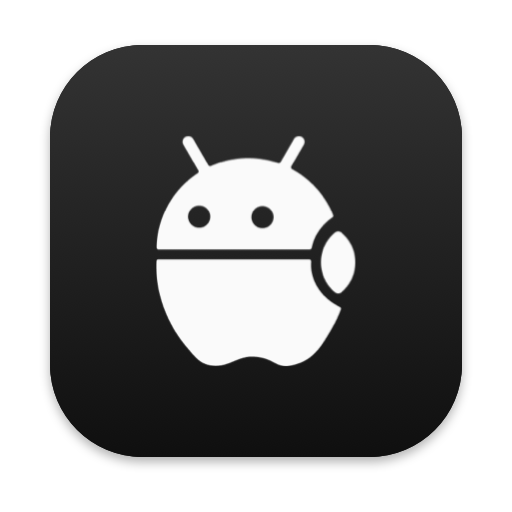
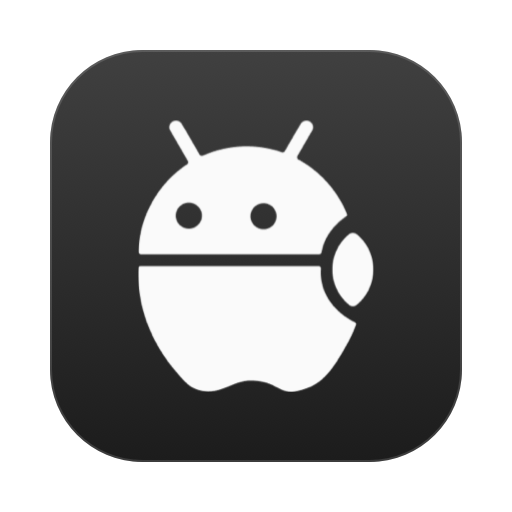
Mac n Droid 0.11.0
- Clearer Mac app icon: no baked-in shadow, larger droid, a light edge so it
  stands out on a dark Dock
- Browser extension says "Open on Your Phone" (popup and right-click menus)
- Mac, Android and the browser extension are all 0.11.0
- CHANGELOG.md with what's new; README, download page and bug report form
  updated; no personal device names in examples

diff --git a/tools/make-icons.swift b/tools/make-icons.swift
@@ -60,7 +60,9 @@ func drawGlyph(_ img: NSImage, in rect: NSRect) {
 let green = NSColor(srgbRed: 0x0D / 255, green: 0xA4 / 255, blue: 0x57 / 255, alpha: 1)   // public/logo_droid_greenbg.svg
 let greenHex = String(format: "#%02X%02X%02X", Int(green.redComponent * 255), Int(green.greenComponent * 255), Int(green.blueComponent * 255))
 
-// MARK: Mac app icon — macOS grid: 824/1024 body, ~185 radius, soft drop shadow.
+// MARK: Mac app icon — macOS grid: 824/1024 body centered, ~185 radius. No baked-in shadow (the Dock and
+// Finder draw their own). A slightly lifted charcoal with a fine light edge so it stands out on a dark Dock,
+// and a large glyph so it reads at Dock size.
 let iconset = "mac/Resources/AppIcon.iconset"
 for (pt, scales) in [(16, [1, 2]), (32, [1, 2]), (128, [1, 2]), (256, [1, 2]), (512, [1, 2])] {
     for sc in scales {
@@ -68,21 +70,18 @@ for (pt, scales) in [(16, [1, 2]), (32, [1, 2]), (128, [1, 2]), (256, [1, 2]), (
         let rep = bitmap(px, px) { size in
             let s = size.width
             let inset = s * 100 / 1024
-            let body = NSRect(x: inset, y: inset * 1.1, width: s - inset * 2, height: s - inset * 2)
-            let path = NSBezierPath(roundedRect: body, xRadius: s * 185 / 1024, yRadius: s * 185 / 1024)
-            NSGraphicsContext.saveGraphicsState()
-            let shadow = NSShadow()
-            shadow.shadowColor = NSColor.black.withAlphaComponent(0.3)
-            shadow.shadowOffset = NSSize(width: 0, height: -s * 10 / 1024)
-            shadow.shadowBlurRadius = s * 22 / 1024
-            shadow.set()
-            NSColor(white: 0.08, alpha: 1).setFill()
-            path.fill()
-            NSGraphicsContext.restoreGraphicsState()
-            // Subtle top-to-bottom sheen, like native dark icons.
-            NSGradient(starting: NSColor(white: 0.20, alpha: 1), ending: NSColor(white: 0.06, alpha: 1))!
+            let body = NSRect(x: inset, y: inset, width: s - inset * 2, height: s - inset * 2)
+            let radius = s * 185 / 1024
+            let path = NSBezierPath(roundedRect: body, xRadius: radius, yRadius: radius)
+            NSGradient(starting: NSColor(white: 0.25, alpha: 1), ending: NSColor(white: 0.11, alpha: 1))!
                 .draw(in: path, angle: -90)
-            drawGlyph(white, in: body.insetBy(dx: body.width * 0.25, dy: body.height * 0.22))
+            // Hairline edge, brighter at the top, like native dark icons.
+            let edge = NSBezierPath(roundedRect: body.insetBy(dx: s / 1024 * 2, dy: s / 1024 * 2),
+                                    xRadius: radius - s / 1024 * 2, yRadius: radius - s / 1024 * 2)
+            edge.lineWidth = max(1, s * 4 / 1024)
+            NSColor(white: 1, alpha: 0.14).setStroke()
+            edge.stroke()
+            drawGlyph(white, in: body.insetBy(dx: body.width * 0.19, dy: body.height * 0.17))
         }
         save(rep, "\(iconset)/icon_\(pt)x\(pt)\(sc == 2 ? "@2x" : "").png")
     }

diff --git a/site/index.html b/site/index.html
@@ -502,8 +502,8 @@ footer{text-align:center;color:var(--muted);font-size:13px;padding:24px 16px 48p
   <p class="lead">Notifications, codes, clipboard, files, screenshots, music and even your phone's screen, right on your Mac. Watch it work below, or try it yourself.</p>
   <div class="downloads">
     <!-- Download links: keep the literal filenames so they're easy to update on each release. -->
-    <a class="btn primary" href="MacNDroid-0.8.2.dmg"><img src="assets/icon.png" alt=""><span>Download for Mac<small>macOS 14 or later · v0.8.2</small></span></a>
-    <a class="btn secondary" href="MacNDroid-0.8.5.apk"><img src="assets/icon.png" alt=""><span>Download for Android<small>Android 10 or later · v0.8.5</small></span></a>
+    <a class="btn primary" href="MacNDroid-0.11.0.dmg"><img src="assets/icon.png" alt=""><span>Download for Mac<small>macOS 14 or later · v0.11.0</small></span></a>
+    <a class="btn secondary" href="MacNDroid-0.11.0.apk"><img src="assets/icon.png" alt=""><span>Download for Android<small>Android 10 or later · v0.11.0</small></span></a>
   </div>
   <div class="trust">Apple silicon and Intel · Pairs with a QR code in under a minute</div>
 </header>
@@ -599,8 +599,8 @@ footer{text-align:center;color:var(--muted);font-size:13px;padding:24px 16px 48p
   <h2 class="big display">Free. For you and your friends.</h2>
   <p class="sub">No account, no ads, no subscription.</p>
   <div class="downloads">
-    <a class="btn primary" href="MacNDroid-0.8.2.dmg"><img src="assets/icon.png" alt=""><span>Download for Mac<small>macOS 14 or later · v0.8.2</small></span></a>
-    <a class="btn secondary" href="MacNDroid-0.8.5.apk"><img src="assets/icon.png" alt=""><span>Download for Android<small>Android 10 or later · v0.8.5</small></span></a>
+    <a class="btn primary" href="MacNDroid-0.11.0.dmg"><img src="assets/icon.png" alt=""><span>Download for Mac<small>macOS 14 or later · v0.11.0</small></span></a>
+    <a class="btn secondary" href="MacNDroid-0.11.0.apk"><img src="assets/icon.png" alt=""><span>Download for Android<small>Android 10 or later · v0.11.0</small></span></a>
   </div>
 </section>
 

diff --git a/browser-extension/background.js b/browser-extension/background.js
@@ -103,27 +103,26 @@ chrome.tabs.onRemoved.addListener((tab) => {
 });
 
 async function sendUrl(url) {
-  if (!/^https?:\/\//.test(url || "")) return { ok: false, error: "Only web pages can be sent." };
+  if (!/^https?:\/\//.test(url || "")) return { ok: false, error: "Only web pages can be opened on your phone." };
   if (!open) return { ok: false, error: "Open the Mac n Droid app first." };
   if (!status.connected) return { ok: false, error: "Your phone isn't connected." };
   send({ t: "send_url", url });
   return { ok: true };
 }
 
-// Right-click → "Open link on Pixel 8" / "Send page to Pixel 8".
+// Right-click → "Open Link on Your Phone" / "Open Page on Your Phone".
 function setUpMenus() {
   chrome.contextMenus.removeAll(() => {
-    chrome.contextMenus.create({ id: "link", title: "Open Link on Phone", contexts: ["link"] });
-    chrome.contextMenus.create({ id: "page", title: "Send Page to Phone", contexts: ["page"] });
+    chrome.contextMenus.create({ id: "link", title: "Open Link on Your Phone", contexts: ["link"] });
+    chrome.contextMenus.create({ id: "page", title: "Open Page on Your Phone", contexts: ["page"] });
     updateMenus();
   });
 }
 
 function updateMenus() {
-  const phone = status.phone || "Phone";
   const enabled = status.connected;
-  chrome.contextMenus.update("link", { title: `Open Link on ${phone}`, enabled }, () => void chrome.runtime.lastError);
-  chrome.contextMenus.update("page", { title: `Send Page to ${phone}`, enabled }, () => void chrome.runtime.lastError);
+  chrome.contextMenus.update("link", { enabled }, () => void chrome.runtime.lastError);
+  chrome.contextMenus.update("page", { enabled }, () => void chrome.runtime.lastError);
 }
 
 chrome.contextMenus.onClicked.addListener((info, tab) => {

diff --git a/browser-extension/popup.js b/browser-extension/popup.js
@@ -9,7 +9,6 @@ chrome.runtime.sendMessage({ t: "status" }, (s) => {
   } else {
     $("phone").textContent = s.phone || "Phone";
     $("status").textContent = "Connected";
-    $("send").textContent = `Send This Page to ${s.phone || "Phone"}`;
     $("send").disabled = false;
   }
   // What the phone can control right now: makes it obvious when a tab isn't being picked up.
@@ -23,11 +22,11 @@ $("send").addEventListener("click", async () => {
   $("send").disabled = true;
   chrome.runtime.sendMessage({ t: "send_url", url: tab && tab.url }, (r) => {
     if (r && r.ok) {
-      $("send").textContent = "Sent ✓";
+      $("send").textContent = "Opened on your phone ✓";
       setTimeout(() => window.close(), 700);
     } else {
       $("send").disabled = false;
-      $("note").textContent = (r && r.error) || "Couldn't send this page.";
+      $("note").textContent = (r && r.error) || "Couldn't open this page on your phone.";
     }
   });
 });

diff --git a/mac/Sources/MacNDroid/Views/NotchView.swift b/mac/Sources/MacNDroid/Views/NotchView.swift
@@ -270,7 +270,7 @@ final class NotchController {
         scheduleHide(after: ringing ? 60 : (style == .small ? 4 : 6))
     }
 
-    /// A short status pill, e.g. "Image copied from Pixel 8".
+    /// A short status pill, e.g. "Image copied from phone".
     func flash(symbol: String, text: String) {
         if model.expanded, model.hovering || model.replying || current?.isCall == true { return }
         present { m in

diff --git a/browser-extension/popup.html b/browser-extension/popup.html
@@ -26,7 +26,7 @@
     </div>
   </div>
   <div class="media" id="media"></div>
-  <button id="send" disabled>Send This Page to Phone</button>
+  <button id="send" disabled>Open on Your Phone</button>
   <div class="note" id="note">Music and videos playing in this browser can be paused and skipped from your phone. Right-click a link to open it on your phone.</div>
   <script src="popup.js"></script>
 </body>

diff --git a/mac/Sources/MacNDroid/Core/LeftBehind.swift b/mac/Sources/MacNDroid/Core/LeftBehind.swift
@@ -1,6 +1,6 @@
 import AppKit
 
-/// "You left Pixel 8 behind."
+/// "You left your phone behind."
 ///
 /// The Mac can't measure distance to the phone, so it uses the network instead. When the phone
 /// stops answering *and* this Mac is now on a different network (a different router, or none)

diff --git a/README.md b/README.md
@@ -9,6 +9,7 @@ Free, private continuity between an Android phone and a Mac, with no account and
 | **Link** | Local Wi-Fi only, QR-code pairing, AES-256-GCM end-to-end encryption. See [PROTOCOL.md](PROTOCOL.md). |
 
 ## Features
+What changed in each version: [CHANGELOG.md](CHANGELOG.md).
 
 ### Notifications
 - **Phone notifications on your Mac:** native banners, or Dynamic Island–style drops from the MacBook notch (top of the screen on Macs without a notch). App names and logos (Gmail, WhatsApp…), and the app's own buttons: Reply, Mark as read, Answer/Decline for calls. Dismiss on the Mac and it's dismissed on the phone.
@@ -27,9 +28,9 @@ Free, private continuity between an Android phone and a Mac, with no account and
 
 ### Files and links
 - **Share → Send to Phone on the Mac:** in Finder, Photos, Safari, Preview and any app with a Share button. Files and photos are sent, links open on the phone, text goes to its clipboard.
-- **Files both ways:** drag onto the Mac window, Dock icon or the **notch**; on the phone use **Share → Send to <your Mac>**, the **Send files** button, or the **Send files to Mac** Quick Settings tile. Several files at once give one sound and one notification.
+- **Files both ways:** drag onto the Mac window, Dock icon or the **notch**; on the phone use **Share → Send to Mac**, the **Send files** button, or the **Send files to Mac** Quick Settings tile. Several files at once give one sound and one notification.
 - **Link handoff:** share a link on the phone to open it in the Mac's browser. Send the current browser tab from the Mac with **⌃⌥P** (any browser) and it opens on the phone, right after you unlock it if it's locked.
-- **Share sheet:** your Mac appears in the top row by name, with two actions. **Open on <your Mac>** opens a link in its browser; **Send to <your Mac>** sends files to Downloads and text or links to its clipboard. Their icon is a laptop, so it's clear where it's going.
+- **Share sheet:** two actions in the top row, labelled with your Mac's name. **Open on Mac** opens a link in the Mac's browser; **Send to Mac** sends files to Downloads and text or links to the Mac's clipboard. Their icon is a laptop, so it's clear where it's going.
 
 ### Music and media
 - **Phone music on the Mac:** see and control what's playing on the phone.
@@ -43,7 +44,7 @@ Free, private continuity between an Android phone and a Mac, with no account and
 
 ### Browser extension (Helium, Chrome, Edge, Brave, Arc…)
 - Control music and videos playing in the browser from your phone.
-- Click the toolbar icon for **Send This Page to Phone**, or right-click a link for **Open Link on Phone**.
+- Click the toolbar icon for **Open on Your Phone**, or right-click a link or page for **Open Link on Your Phone** / **Open Page on Your Phone**.
 - Talks only to the Mac n Droid app on your own Mac (127.0.0.1); websites can't connect to it.
 
 ### Everything else
@@ -74,7 +75,7 @@ Free, private continuity between an Android phone and a Mac, with no account and
 
 ```bash
 # Mac app → mac/dist/Mac n Droid.app + .dmg (needs only Command Line Tools)
-cd mac && ./scripts/build-app.sh 0.10.4
+cd mac && ./scripts/build-app.sh 0.11.0
 
 # Android APK → android/app/build/outputs/apk/release/app-release.apk
 cd android

diff --git a/CHANGELOG.md b/CHANGELOG.md
@@ -1,0 +1,50 @@
+# What's new
+
+## 0.11.0 (Mac and Android)
+
+### New
+- **Messages on your Mac:** read and reply to texts from the Mac's new Messages page. Start a new
+  conversation with contact search. Google Messages chat (RCS) messages that arrive while you're
+  connected show up too, and replies go back through the chat.
+- **Clipboard history:** the last 20 things copied on either device, on both devices. Tap to copy
+  again, or clear the list from the phone or the Mac.
+- **Link handoff:** share a link on the phone with **Open on Mac** to open it in the Mac's browser.
+  On the Mac, press **⌃⌥P** to open the current browser tab on the phone. If the phone is locked,
+  the link opens when you unlock it.
+- **Send to Phone in the Mac's Share menu:** in Finder, Photos, Safari, Preview and any app with a
+  Share button. Files and photos go to the phone, links open on it, and text goes to its clipboard.
+- **Browser extension** for Helium, Chrome, Edge, Brave and Arc: pause, play and skip music and
+  videos playing in the browser from your phone, and open pages and links on your phone.
+- **Control your Mac's music from the phone:** Music, Spotify and browser tabs appear in the
+  phone's media controls.
+- **Drag files onto the MacBook notch** to send them to the phone.
+- **Send files to Mac** Quick Settings tile on the phone.
+- **Automatic updates** for the Mac app.
+- **Left-behind alerts:** a chime on the phone if you walk away from your Mac while it's awake.
+- **Use your phone from the Mac** while mirroring (needs the optional phone control setting).
+
+### Improved
+- The phone's share sheet shows two clear actions, **Open on Mac** and **Send to Mac**, with a
+  laptop icon.
+- A burst of notifications (like WhatsApp re-posting old unread chats) plays one sound on the Mac
+  and shows only the first few.
+- Calls disappear from the Mac as soon as they end, even when the phone is locked.
+- Clicking **Reply** in the notch puts the cursor straight in the text box. Replies that can only
+  happen on the phone are labelled "Reply on Phone"; messages that can't be replied to have no
+  Reply button.
+- Several files at once give one sound and one notification.
+- Android home screen: grouped settings in the style of Google's own apps, colors that follow your
+  phone's theme, and the bottom bar in the order Home, Files, Clipboard, Notifications.
+- Softer brand colors and clearer app and extension icons.
+
+### Notes
+- The Mac app isn't notarized yet: the first time, open **System Settings → Privacy & Security**
+  and click **Open Anyway**.
+- To install the browser extension, open Mac n Droid → **Settings → Sync → Browser → Show
+  Extension in Finder**, then load it in your browser's extensions page with Developer mode on.
+- Messages needs SMS access on the phone. Older Google Messages chats (RCS) stay on the phone;
+  only new ones show on the Mac.
+
+## 0.8.2 (Mac) · 0.8.5 (Android)
+First public version: notifications, clipboard, files, phone battery, ring my phone, notch
+notifications.
